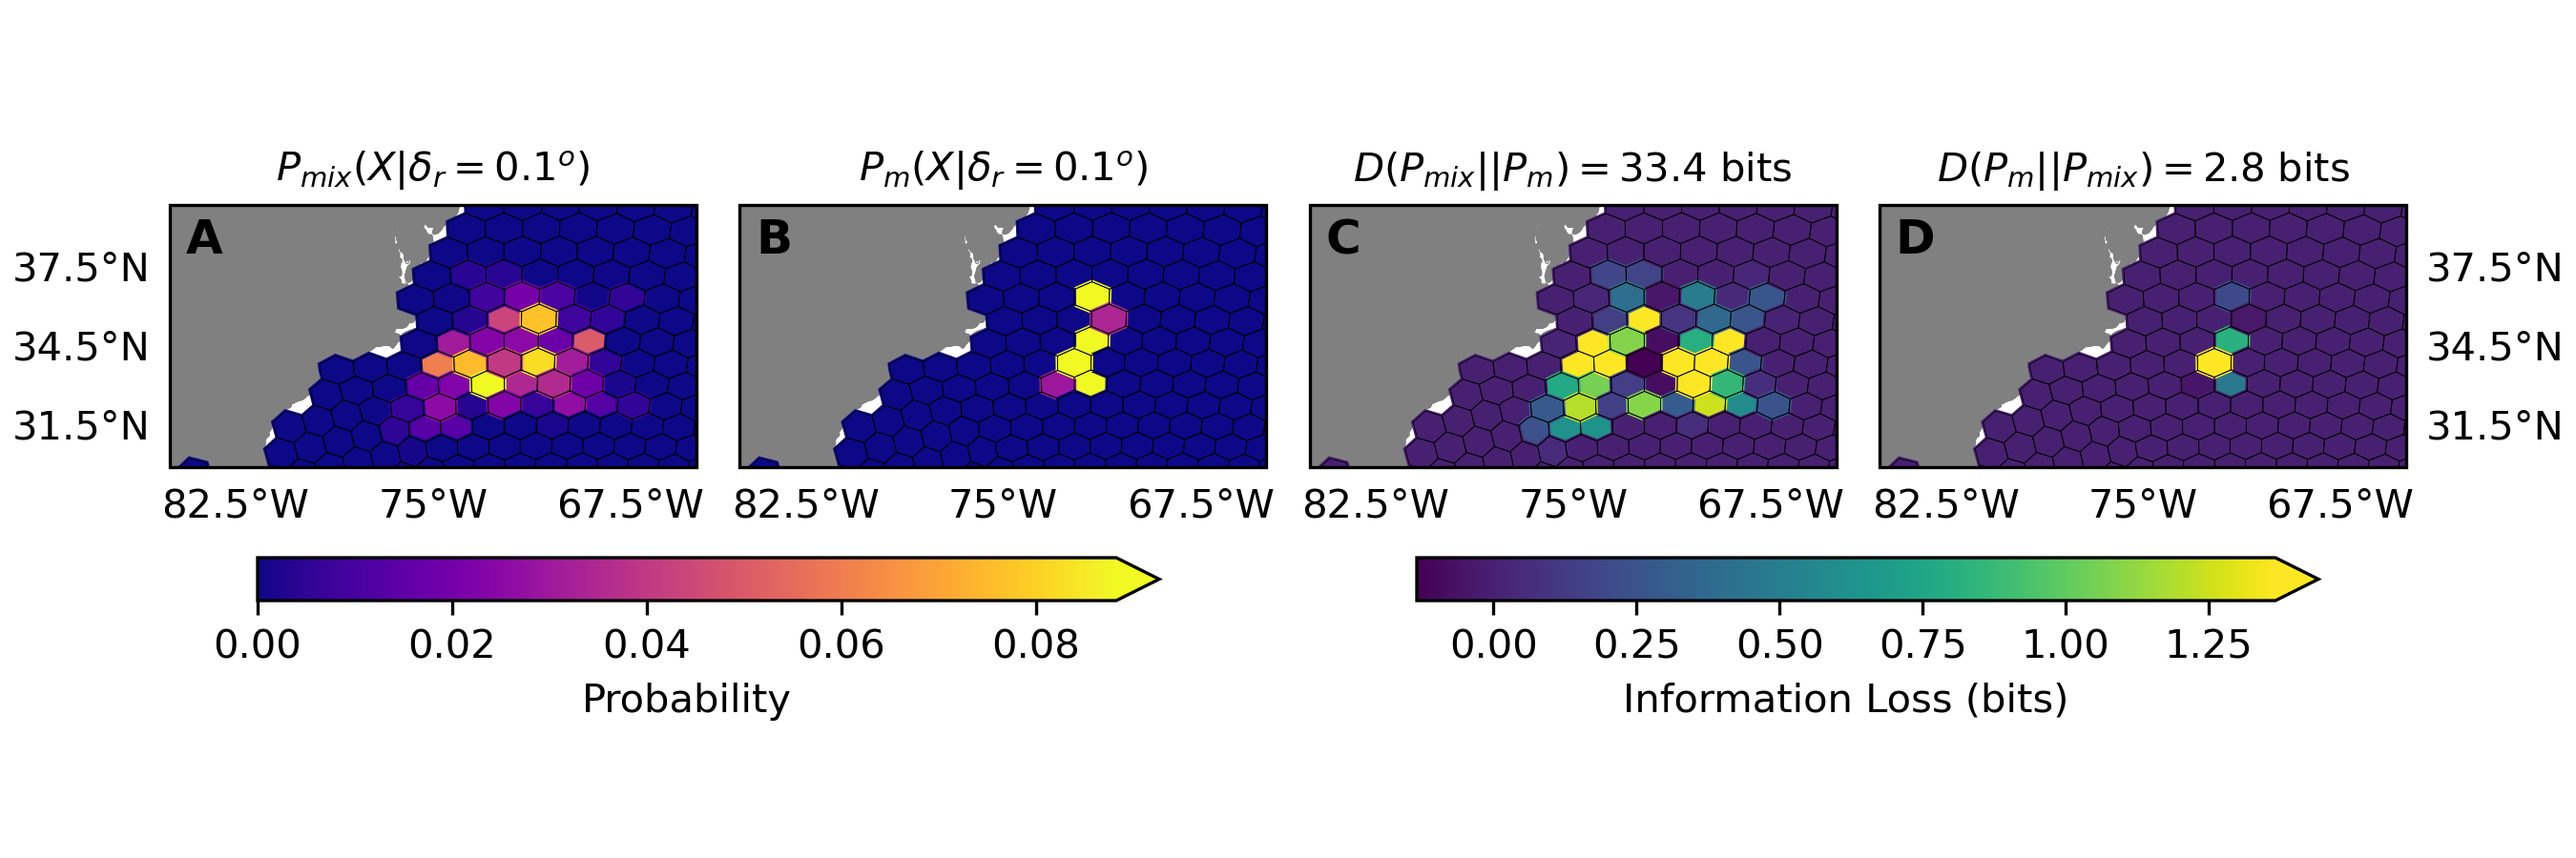
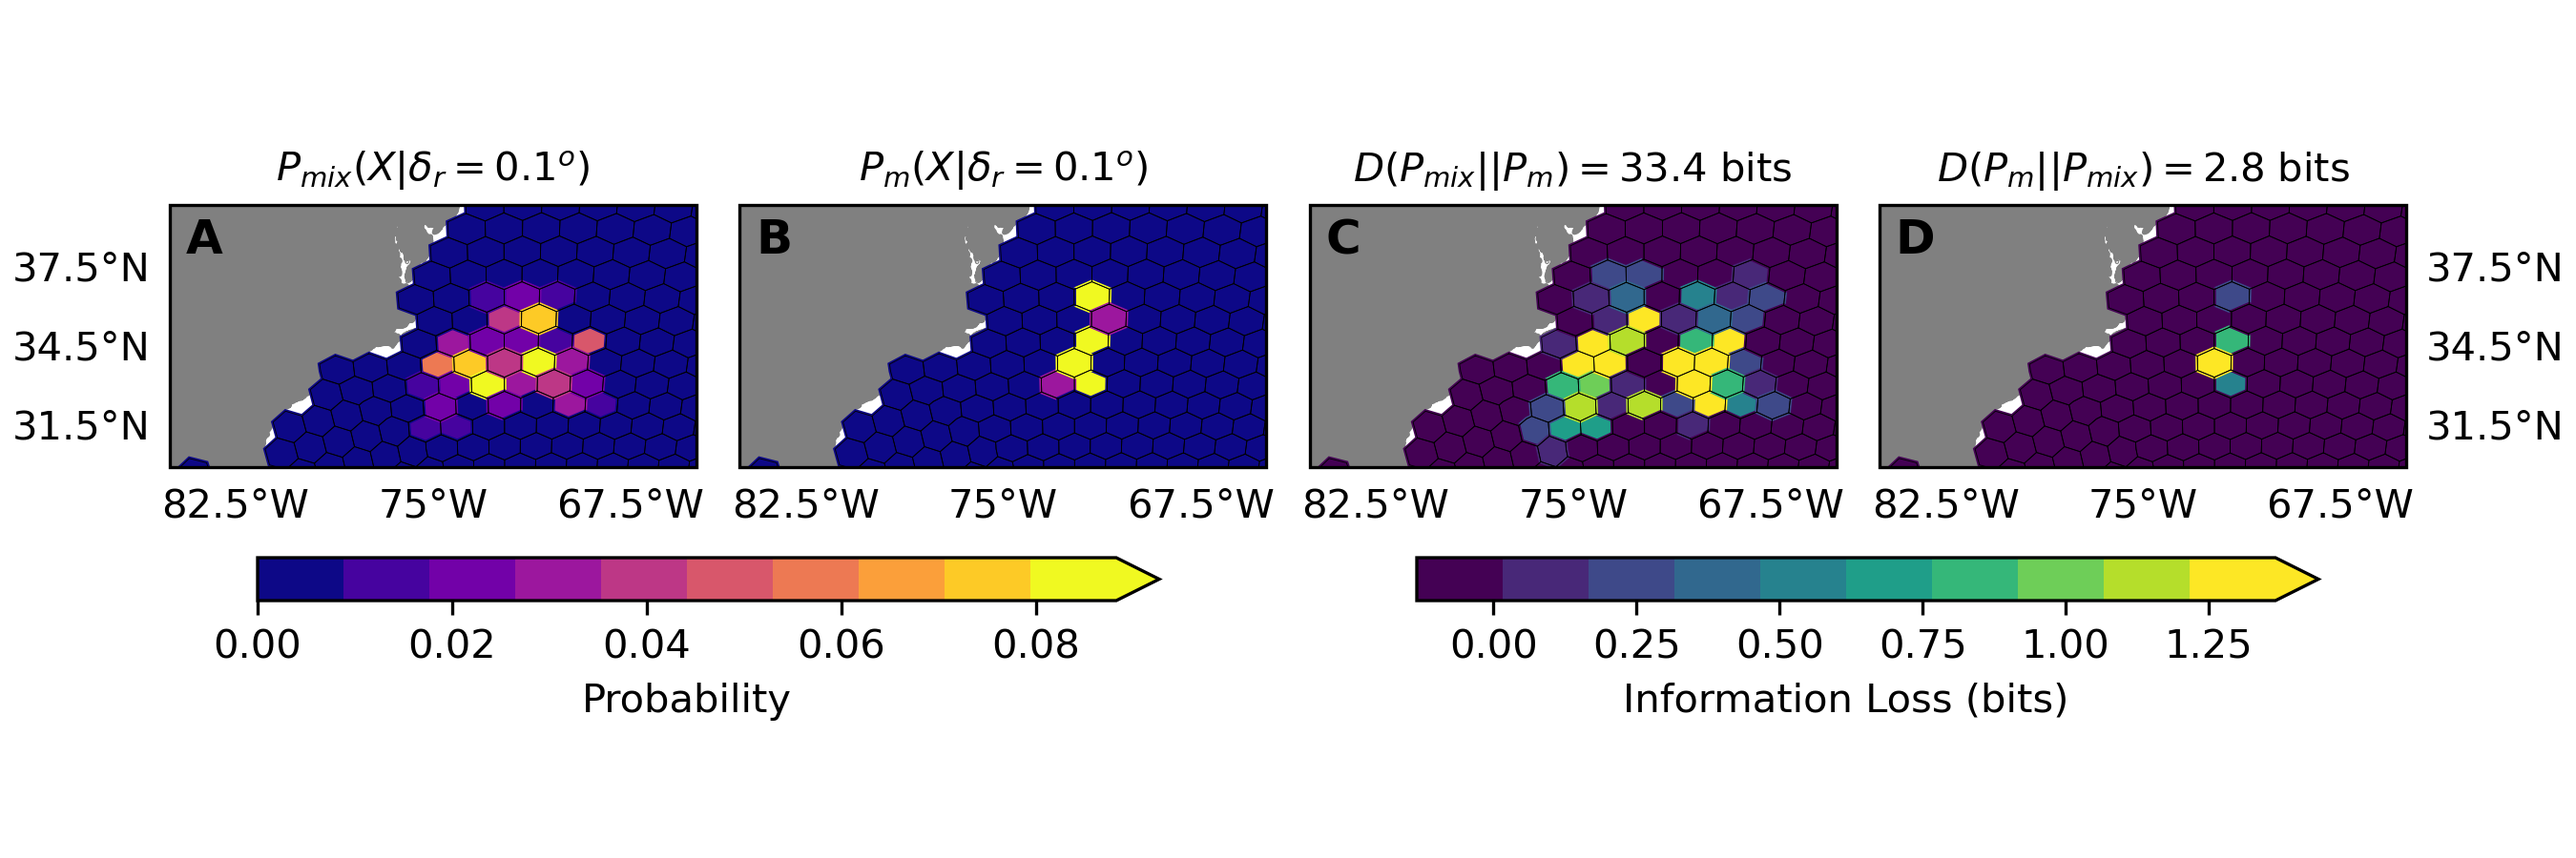
modify fig2 make colorbar discrete

diff --git a/plot_scripts/fig4-Representation_entropy.py b/plot_scripts/fig4-Representation_entropy.py
@@ -112,15 +112,24 @@ for delta_r in [0.1, 1., 2.]:
 ax.plot(time_range, mixture_entropy_space[0.1], ls='-', color='black', label=r'Mixture: $\delta_r = 0.1^o$')
 ax.plot(time_range, mixture_entropy_space[2], ls=(0, (3, 1, 1, 1)), color='black', label=r'Mixture: $\delta_r = 2.0^o$')
 
+# ax.semilogx(time_range[:10],  time_range[:10]**(3/8) + 3, ls='-', color='red')
+ax.plot(time_range[10:1000],  1*np.log(time_range[10:1000]), ls='-', color='red')
+ax.plot(time_range[1:1000],  2*np.log(time_range[1:1000]), ls='-', color='red')
+ax.plot(time_range[10:1000],  (time_range[10:1000])**1, ls='-', color='green')
 ax.set_xlim(1, 2189)
 ax.set_ylim(0., 10.5)
-ax.semilogx()
+ax.semilogx(base=10)
 ax.legend(shadow=True)
 ax.set_ylabel('Marginal Entropy (bits)')
 ax.set_xlabel('Particle Age (days)')
 ax.grid()
 # plt.savefig('../figs/Fig3-Spatial-Representation_entropy.png', dpi=300)
 
+#%%
+plt.plot(time_range[:1000],  time_range[:1000]**(3/8), ls='-', label='3/8')
+plt.plot(time_range[:1000],  time_range[:1000]**(5/16), ls='-', label='5/16')
+plt.plot(time_range[:1000],  time_range[:1000]**(1/2), ls='-', label='1.2')
+plt.legend()
 
 # %%%%%%%%%%%%%%%%%%%%%%%%% Temporal plot of the mean entropy %%%%%%%%%%%%%%%%%%%%%%%%%
 
